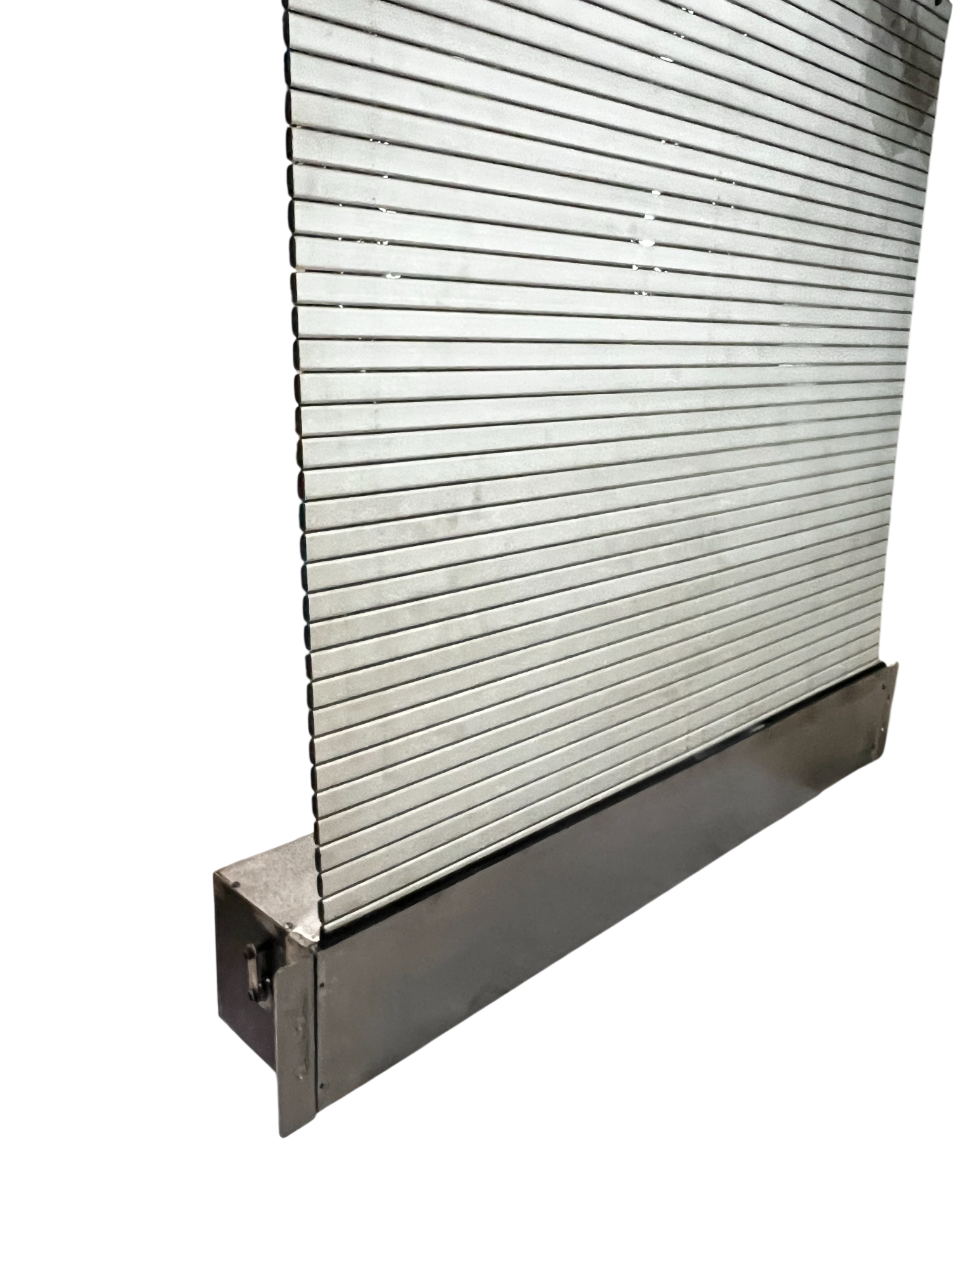
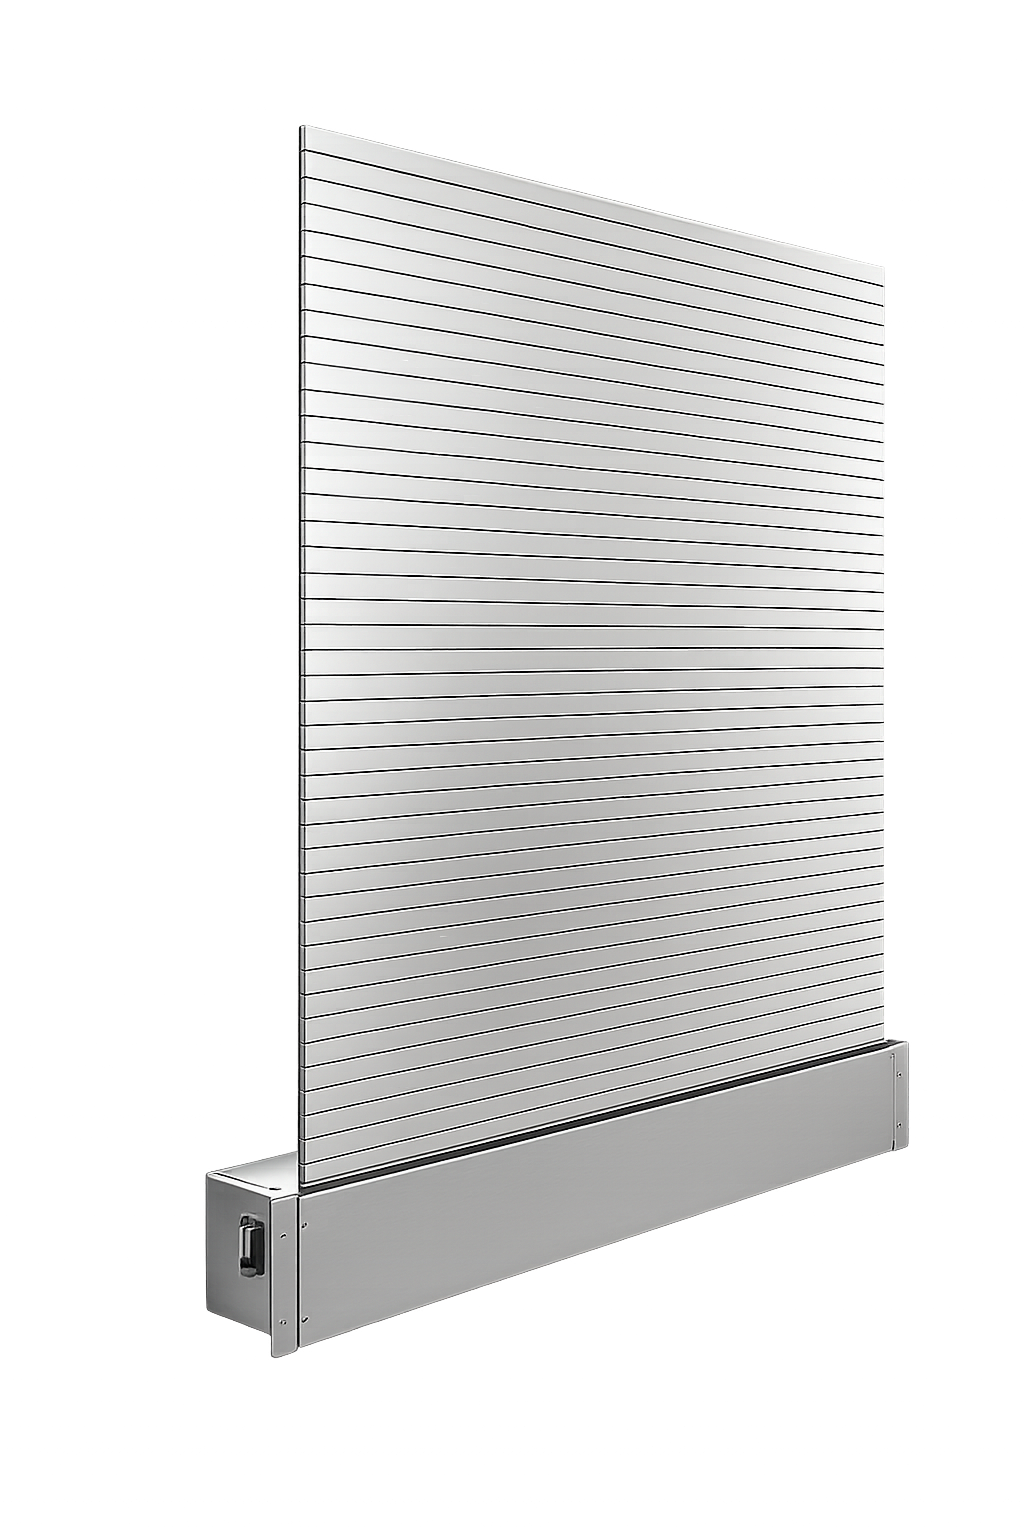
feat: update Hero component media; replace old images with new ones and add additional media files feat: enhance Section2 with new content and layout for About Us section feat: update catalog with new product image and remove obsolete images

diff --git a/styles/section2.scss b/styles/section2.scss
@@ -60,88 +60,77 @@
   border-bottom: 1px solid #2f5bff;
 }
 
-/* ---------- CARDS ---------- */
+/* ---------- ABOUT US SECTION ---------- */
 
-.clarity-cards {
+.clarity-about {
   margin-top: 100px;
+}
+
+.clarity-about-content h2 {
+  font-size: 42px;
+  color: #2f5bff;
+  font-weight: 700;
+  margin-bottom: 60px;
+  text-align: center;
+
+  @media (max-width: 768px) {
+    font-size: clamp(28px, 6vw, 36px);
+    margin-bottom: 40px;
+  }
+}
+
+.clarity-about-grid {
   display: grid;
-  grid-template-columns: repeat(3, 1fr);
-  border: 2px solid #2f5bff;
-  
-  
+  grid-template-columns: repeat(2, 1fr);
+  gap: 40px;
+
+  @media (max-width: 1024px) {
+    grid-template-columns: 1fr;
+    gap: 32px;
+  }
+
+  @media (max-width: 768px) {
+    gap: 24px;
+  }
 }
 
-.clarity-card {
-  padding: 20px;
-  border-right: 2px solid #2f5bff;
-  position: relative;
-  padding-bottom: 40px;
- 
+.clarity-about-item {
+  padding: 32px;
+  background: white;
+  border-left: 4px solid #2f5bff;
+  transition: all 0.3s ease;
+
+  &:hover {
+    box-shadow: 0 4px 16px rgba(47, 91, 255, 0.1);
+    transform: translateY(-4px);
+  }
+
+  h3 {
+    font-size: 20px;
+    color: #2f5bff;
+    font-weight: 700;
+    margin-bottom: 12px;
+  }
+
+  p {
+    font-size: 15px;
+    color: #444;
+    line-height: 1.6;
+    margin: 0;
+  }
+
+  @media (max-width: 768px) {
+    padding: 24px;
+
+    h3 {
+      font-size: 18px;
+    }
+
+    p {
+      font-size: 14px;
+    }
+  }
 }
-
-.clarity-card:last-child {
-  border-right: none;
-}
-
-.clarity-card h3 {
-  font-size: 34px;
-  color: #2f5bff;
-  margin-bottom: 8px;
-  font-weight:600;
-
-}
-
-.clarity-sub {
-  font-weight: 400;
-  display: block;
-  margin-bottom: 12px;
-  color: #2f5bff;
-  font-size: 18px;
-}
-
-.clarity-card p {
-  font-size: 14px;
-  color: #333;
-  max-width: 260px;
-}
-
-/* ---------- VISUAL PLACEHOLDERS ---------- */
-
-.clarity-visual {
-  margin-top: 40px;
-  height: 220px;
-  position: relative;
-  display: flex;
-  flex-direction: column;
-  justify-content: center;
-  align-items: center;
-}
-
-/* subtle personality like reference */
-.clarity-visual.today::after {
-  position: absolute;
-  color: #9aff00;
-  font-size: 22px;
-  top: 20px;
-  left: 20px;
-
-}
-
-.clarity-visual.yesterday::after {
-  position: absolute;
-  font-size: 48px;
-  top: 40px;
-  right: 40px;
-}
-
-.clarity-visual.tomorrow::after {
-  position: absolute;
-  font-size: 48px;
-  bottom: 40px;
-  right: 40px;
-}
-
-/* ---------- RESPONSIVE ---------- */
 
 @media (max-width: 1024px) {
   .clarity {
@@ -153,17 +142,8 @@
     gap: 40px;
   }
 
-  .clarity-cards {
+  .clarity-about-grid {
     grid-template-columns: 1fr;
-  }
-
-  .clarity-card {
-    border-right: none;
-    border-bottom: 1px solid #2f5bff;
-  }
-
-  .clarity-card:last-child {
-    border-bottom: none;
   }
 }
 
@@ -177,21 +157,12 @@
     margin-top: 28px;
   }
 
-  .clarity-cards {
-    margin-top: 48px;
+  .clarity-about {
+    margin-top: 60px;
   }
 
-  .clarity-card h3 {
-    font-size: clamp(22px, 5vw, 28px);
-  }
-
-  .clarity-card p {
-    max-width: 100%;
-  }
-
-  .clarity-visual {
-    height: 180px;
-    margin-top: 24px;
+  .clarity-about-grid {
+    gap: 20px;
   }
 }
 

diff --git a/components/Section2.jsx b/components/Section2.jsx
@@ -38,43 +38,46 @@ const Section2 = () => {
         </div>
       </div>
 
-      <div className="clarity-cards">
-        <div className="clarity-card">
-          <h3>Telescopic Way Covers</h3>
-          <span className="clarity-sub">Heavy-duty linear axis protection.</span>
-          <p>
-            Engineered telescopic way covers for CNC machine protection with
-            high dimensional accuracy and long service life.
-          </p>
+      <div className="clarity-about">
+        <div className="clarity-about-content">
+          <h2>About Our Approach</h2>
+          
+          <div className="clarity-about-grid">
+            <div className="clarity-about-item">
+              <h3>Engineering Excellence</h3>
+              <p>
+                Every protection system we design is engineered to meet exact 
+                customer requirements, ensuring seamless integration with your 
+                machinery and operational environment.
+              </p>
+            </div>
 
-          <div className="clarity-visual today">
-            <img src="today.webp" alt="Telescopic way covers" />
-          </div>
-        </div>
+            <div className="clarity-about-item">
+              <h3>Global Manufacturing Standards</h3>
+              <p>
+                With manufacturing facilities in India, we maintain international 
+                quality standards while delivering cost-effective solutions for 
+                global OEM partners and industrial operators.
+              </p>
+            </div>
 
-        <div className="clarity-card">
-          <h3>Roll-Up and Apron Covers</h3>
-          <span className="clarity-sub">Compact protection for moving elements.</span>
-          <p>
-            Durable roll-up way covers and apron covers designed to handle
-            coolant exposure, chips, and repetitive machine movement.
-          </p>
+            <div className="clarity-about-item">
+              <h3>Trusted by Industry Leaders</h3>
+              <p>
+                Our machine protection systems are deployed across CNC machining 
+                centers, automation equipment, and precision industrial machinery 
+                worldwide, trusted for reliability and durability.
+              </p>
+            </div>
 
-          <div className="clarity-visual yesterday">
-            <img src="yesterday.webp" alt="Roll-up and apron machine covers" />
-          </div>
-        </div>
-
-        <div className="clarity-card">
-          <h3>CNC Machine Enclosures</h3>
-          <span className="clarity-sub">Precision sheet metal assemblies.</span>
-          <p>
-            Custom CNC machine enclosures and sheet metal machine enclosures
-            developed for OEM specifications and operating conditions.
-          </p>
-
-          <div className="clarity-visual tomorrow">
-            <img src="tomorrow.webp" alt="CNC machine enclosure" />
+            <div className="clarity-about-item">
+              <h3>Custom Solutions</h3>
+              <p>
+                From prototype development to series production, we support custom 
+                engineering requirements for retrofit and OEM applications across 
+                all major machine tool manufacturers.
+              </p>
+            </div>
           </div>
         </div>
       </div>

diff --git a/components/Hero.jsx b/components/Hero.jsx
@@ -15,15 +15,16 @@ const Hero = () => {
   const carouselInterval = useRef(null);
 
   const media = [
-    { url: "/hero/hero1.png", alt: "Signage Products", type: "image" },
-    { url: "/hero/hero2.png", alt: "Signage Products", type: "image" },
-    { url: "/hero/one.png", alt: "Signage Products", type: "image" },
-    { url: "/hero/two.png", alt: "Signage Products", type: "image" },
+    { url: "/hero/1.png", alt: "Signage Products", type: "image" },
+    { url: "/hero/2.png", alt: "Signage Products", type: "image" },
+    { url: "/hero/3.png", alt: "Signage Products", type: "image" },
+    { url: "/hero/4.png", alt: "Signage Products", type: "image" },
+    { url: "/hero/5.png", alt: "Signage Products", type: "image" },
     {
       url: "/hero/hero.mp4",
       alt: "Signage Satellite View",
       type: "video",
-      poster: "/hero/hero1.png",
+      poster: "/hero/1.png",
     },
   ];
 